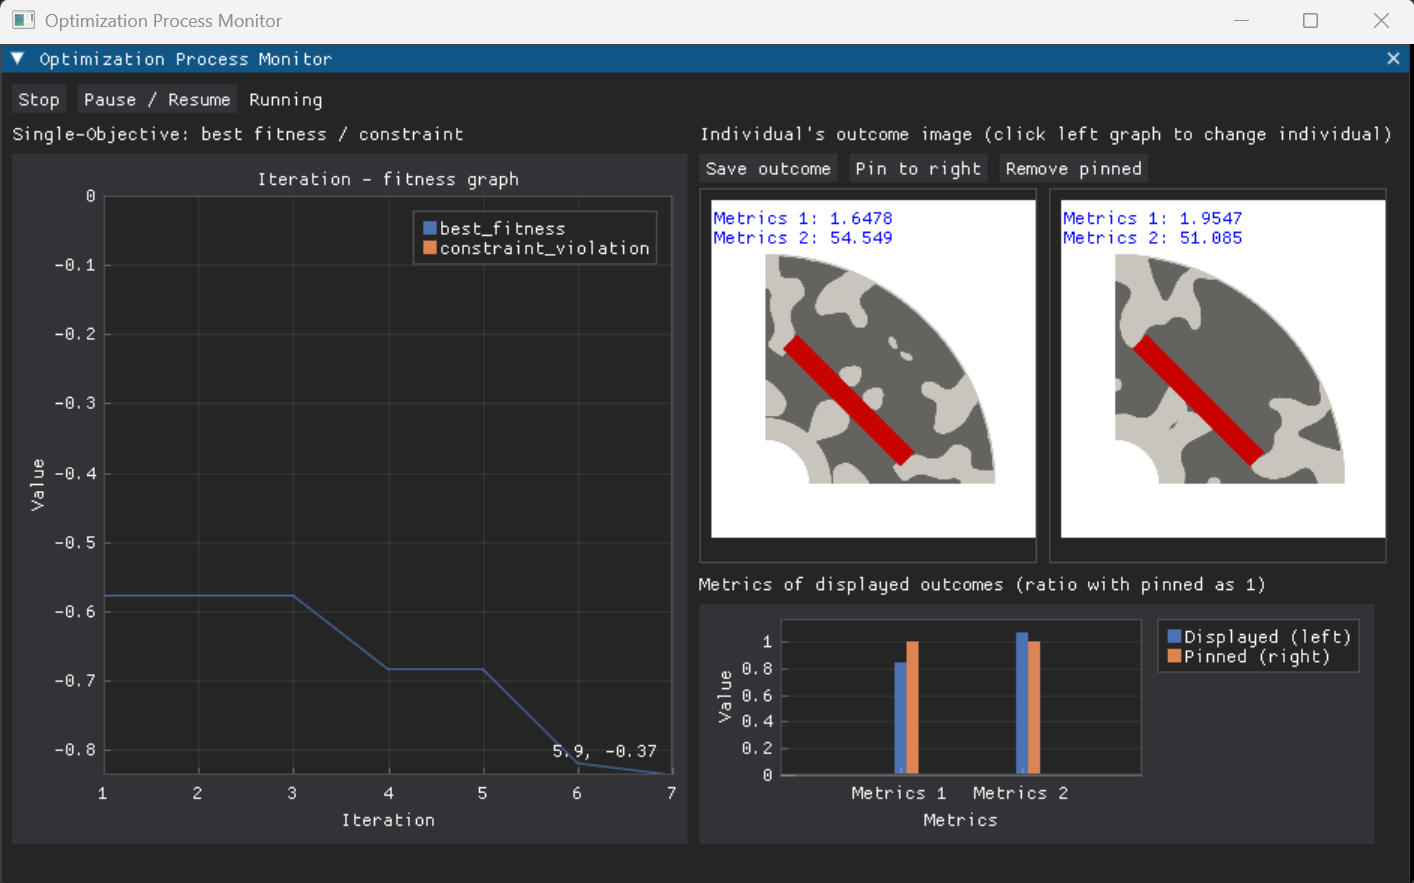
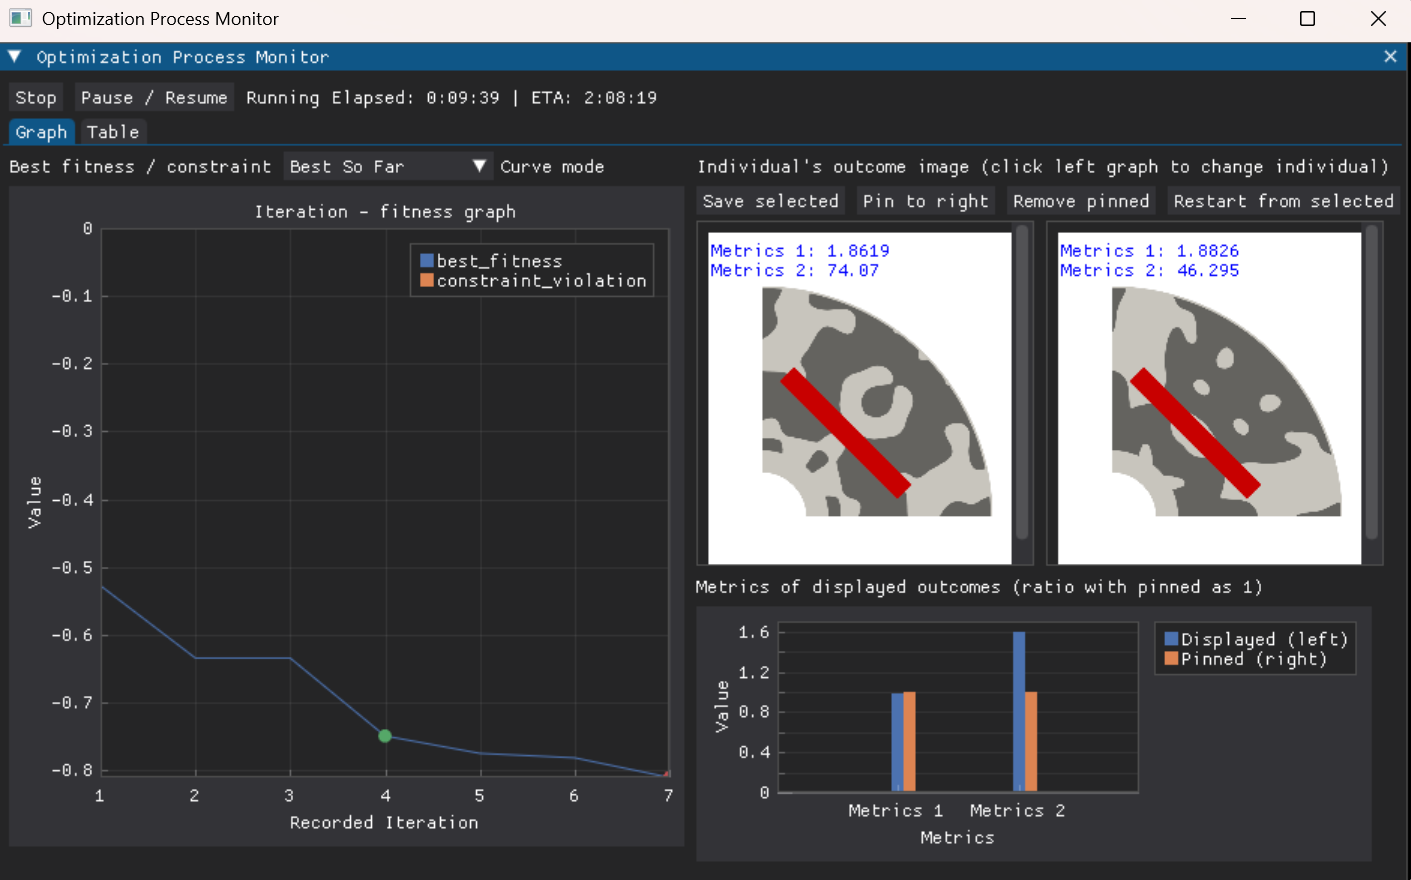
updated

diff --git a/docs/docs/guides/study_control_and_results.md b/docs/docs/guides/study_control_and_results.md
@@ -1,0 +1,189 @@
+---
+sidebar_position: 5
+---
+
+# スタディコントロールと結果確認
+## 全体像
+EMSOptimizerでは、最適化の実行・結果は次の3階層で管理されます。
+- `project`
+  - 最適化対象そのものを切り分ける単位。メッシュファイル、解析条件フォルダはここに入れる。
+- `study`
+  - 最適化条件ごとの単位
+  - `<project>/optimization_studies/`フォルダに作成される
+  - `optimization.yaml`、必要に応じて `machine.yaml`、`optimization_problem.yaml` を持つ
+- `run`
+  - スタディの実行単位
+  - `<project>/summary/optimization_studies/<study_name>/`フォルダに作成される
+  - 同じスタディを複数回実行すると、ランが増えていく
+
+## スタディの作成・管理
+### スタディの作成
+スタディは `mk_study` コマンドで作成します。
+```bash
+python emsopt.py mk_study <project_name> <study_name>
+python emsopt.py mk_study <project_name> <study_name> --from-study <source_study>
+```
+コピー対象は以下です。
+- `optimization.yaml`
+- `machine.yaml`
+- `optimization_problem.yaml`
+既存スタディを上書きしないよう、同名スタディがある場合はエラーになります。
+
+### `default`スタディの自動作成
+`run`、`sample`、`check`、`analyze_runs` などで `--study-name` を省略した場合は、`default`スタディが対象になります。  
+このとき `default` がなければ、プロジェクトルートのコンフィグファイル群をコピーして自動作成されます。
+つまり、最初はスタディを明示的に作らなくても、`default`を起点に使い始められます。
+
+## ランの作成・管理
+### ランの作成
+ランは主に次のコマンドを実行したときに自動的に作られます。
+```bash
+python emsopt.py run <project_name> --study-name <study>
+python emsopt.py batch_run <project_name> <num_runs> --study-name <study>
+python emsopt.py sample <project_name> <num_sample> --study-name <study>
+```
+- `run`
+  - 最適化を1回実行し，1つのランとして保存
+- `batch_run`
+  - 同一スタディを複数回独立実行し，それぞれをランとして保存
+- `sample`
+  - LHSサンプルを評価して、1つのランとして保存
+
+### ランIDの付け方
+ランはスタディごとに連番で採番されます。
+- `run_0001`
+- `run_0002`
+- `run_0003`
+
+### 実行状態の管理
+各 run には `run_info.yaml` が作られ、次の情報を有します：
+- `run_id`
+- `study_name`
+- `status`（最適化の成功・失敗記録）
+- `started_at`
+- `finished_at`
+- `failure_reason`
+- `updated_at`
+
+## 結果出力
+結果は基本的に次に保存されます。
+```text
+<project>/summary/optimization_studies/<study_name>/
+```
+その下に主に以下があります。
+```text
+runs/
+latest.yaml
+resultant/
+records/   ← `optimization.yaml` > `output_control` > `candidate` > `enabled` が `True` のとき
+```
+
+### `runs/<run_id>/`
+各ランの正本です。  
+```text
+summary/optimization_studies/<study>/runs/<run_id>/
+```
+ここには主に以下が入ります。
+- `run_info.yaml`
+  - 上述のランのメタ情報です。
+- `summary.yaml`
+  - ランの実施結果サマリーです。
+- `resultant/`
+  - 単目的なら収束履歴，多目的なら最終世代のパレートフロント情報を保存するフォルダです。
+- `records/`
+  - 解析した全個体の情報を保存するフォルダです。
+  - `optimization.yaml` > `output_control` > `candidate` > `enabled` が `True` sのときに出力されます。
+
+### `latest.yaml`
+スタディの最新ランを指すメタ情報です。  
+中には `latest_run_id` が入ります。
+`check`コマンドはこの情報を使って、「そのスタディの最新ラン結果」を開きます。
+
+### スタディ直下の `resultant/`, `records/`
+これは最新ランのコピーです。
+「いまの最新結果だけをすぐ見たい」ときは、スタディ直下を見ればよい設計です。
+
+### プロジェクト横断結果
+プロジェクト全体では、スタディ横断の集約テーブル（全個体データ）も作られます。  
+`optimization.yaml` > `output_control` > `candidate` > `enabled` が `True`のときに出力されます。
+```text
+<project>/summary/cross_study/cross_study_individuals.csv
+```
+
+### surrogate 用データ出力
+`export_surrogate_data`コマンドを使うと、cross-study テーブルから条件付きで学習データを切り出せます。
+```bash
+python emsopt.py export_surrogate_data <project_name> --study-names <study1> <study2>
+```
+出力先は `summary/cross_study/` です。
+
+## 複数ランの比較・分析
+複数ランの比較・分析は `analyze_runs`コマンドによって実施できます。
+```bash
+python emsopt.py analyze_runs <project_name> --study-name <study>
+python emsopt.py analyze_runs <project_name> --study-name <study> --run-ids run_0001 run_0002
+```
+出力先は以下です。
+```text
+summary/optimization_studies/<study>/analysis/
+```
+
+主な出力は次の通りです。
+
+### 共通
+- `run_status.csv`
+  - run ごとの状態一覧
+- `run_health.yaml`
+  - 成功率、失敗率、失敗理由集計
+
+例:
+- `num_runs`
+- `status_counts`
+- `success_rate`
+- `failure_rate`
+- `failure_reason_counts`
+
+### 単目的
+複数ランの最良目的関数値の比較および統計が出力されます。
+- `single_objective_run_comparison.csv`
+- `single_objective_runs.png`
+- `single_objective_stats.yaml`
+
+`single_objective_stats.yaml` には次が入ります。
+- `num_target_runs`
+- `num_included_runs`
+- `num_excluded_runs`
+- `excluded_runs`
+- `best_objective_mean`
+- `best_objective_std`
+
+### 多目的
+複数ランのパレートフロントハイパーボリューム値の比較および統計が出力されます。
+- `multi_objective_hypervolume.csv`
+- `multi_objective_pareto.png`
+- `multi_objective_stats.yaml`
+
+## 使い分け
+### 新しい条件で実験したい
+- `mk_study` コマンドで新しい study を作る
+- 派生条件なら `--from-study` を使う
+
+### 同じ条件で複数回回したい
+- 同じ study に対して `run` または `batch_run` コマンド
+- run は `run_0001`, `run_0002` と増える
+:::warning
+`optimizer`の実装例にはオプショナル引数として`seed`が存在します。これは，最適化の乱数シードを指定し，再現性を担保する引数です。**ランごとに異なる結果を得たい場合，`seed`引数を未指定にする必要がある**ことに注意してください。  
+特に，`batch_run`コマンドを実行した場合，`optimization.yaml`に記載された引数情報がすべてのランで使用されます。したがって，`seed`引数を指定していると，すべてのランで全く同じ最適化結果となることが期待されます。  
+:::
+
+### 最新結果だけすぐ見たい
+- `check` コマンド
+- または `summary/optimization_studies/<study>/resultant/`
+
+### ランごとの差や成功率を見たい
+- `analyze_runs` コマンド
+- 出力は `analysis/` を見る
+
+### スタディをまたいで再利用したい
+- `summary/cross_study/cross_study_individuals.csv`
+- 一部データのみ利用したいなら`export_surrogate_data`

diff --git a/docs/docs/getting-started/Introduction.md b/docs/docs/getting-started/Introduction.md
@@ -32,13 +32,16 @@ python emsopt.py run Dmodel
 ## EMSOptimizerの概要
 ### EMSOptimizerプロジェクト
 EMSOptimizerでは各最適化ケースを**プロジェクト単位**で管理します。プロジェクトの実体は`project`フォルダ内の各フォルダです。プロジェクトフォルダには以下のファイルが含まれます。
+- **最適化に関するコンフィグ（yamlファイル）**
+    - `optimization.yaml`: 最適化の実行に関するコンフィグ（最適化イテレーション数など）
+    - `mahcine.yaml`: 形状最適化において、最適化対象機器に関係するコンフィグ
+    - `optimization_problem.yaml`: 形状最適化問題（目的関数や制約条件など）を定義するコンフィグ
 - **形状最適化のベースモデルとして用いるメッシュファイル**（`pre_geom2D.msh`, `rotor_mesh2D.msh`（スライド運動領域を含む場合））
 - **形状最適化解析ケースフォルダ**
     - 各解析ケースフォルダにはそれと同名のjsonファイルを配置します（jsonファイルは電磁界シミュレータパッケージ`pyemsol`用の入力ファイルです）。
-- **最適化に関するコンフィグ（yamlファイル）**
-    - `mahcine.yaml`: 形状最適化において、最適化対象機器に関係するコンフィグ
-    - `optimization_problem.yaml`: 形状最適化問題（目的関数や制約条件など）を定義するコンフィグ
-    - `optimization.yaml`: 最適化の実行に関するコンフィグ（最適化イテレーション数など）
+:::info
+ベンチマーク関数の最適化を行う場合，`optimization.yaml`のみが必須ファイルとなります。
+:::
 
 いくつかのプロジェクト例が`project`フォルダ内にすでに配置されています。冒頭の例で指定した`Dmodel`はその一つです。
 
@@ -62,9 +65,9 @@ python emsopt.py run {プロジェクト名}
 7. CLIから`run`コマンドにより最適化を実行する。
 8. 最適化完了後、必要があれば`check`コマンドにより最適化結果を確認する。
 :::info スタディとラン
-EMSOptimizerではプロジェクト内に複数のスタディ（コンフィグファイルの管理単位）を作成することができます。  
-スタディごとに独立したコンフィグファイルを保持し，そのコンフィグファイルを使用して最適化を実施できます（メッシュファイルおよび解析ケースは全スタディ間で共通であり，プロジェクトフォルダ直下に格納する）。なお，スタディ無で最適化を実行すると`default`スタディが自動作成されます。    
-また，スタディの最適化試行ごとにランと呼ばれる単位で結果が保存されます。この機能は同じ設定の最適化を乱数シード等を変えつつ複数回実行し，その結果を比較するのに便利です。
+EMSOptimizerではプロジェクト内に複数のスタディ（最適化設定の管理単位）を作成することができます。  
+スタディの最適化試行ごとにランと呼ばれる単位で結果が保存されます。また，同一スタディを複数回まとめて実行する`batch_run`コマンドも使用できます。  
+詳細は[ユーザガイド > スタディコントロールと結果確認](./study_control_and_results.md)をご覧ください。
 :::
 
 ### 実際に試してみる
@@ -105,7 +108,7 @@ python emsopt.py run NewDmodel
 その他、最適化に関するコンフィグの詳細は[ユーザガイド > 最適化の設定](../guides/optimization_config.md)をご覧ください。
 :::
 
-既定の回数の最適化イテレーションが経過するか、GUI上から停止されると最適化計算が完了状態になります。完了後もGUIは自由に操作でき、GUIを閉じるかCUI（コマンドライン）上で`Ctrl+C`を入力することでプロセスを完全に終了します。
+既定の回数の最適化イテレーションが経過するか、GUI上から停止されると最適化計算が完了状態になります。完了後もGUIは自由に操作でき、GUIを閉じることでプロセスを完全に終了します。
 
 GUIは`check`コマンドによってプロセス終了後に起動することもできます。主に完了した最適化計算の振り返りに活用できます。
 ```sh
@@ -126,7 +129,8 @@ python emsopt.py check NewDmodel
 ②最適化経過グラフ。
 - `Graph`タブ: 単目的最適化では最適化イテレーションー最良評価値グラフ、多目的最適化ではパレートフロントが表示されます。また、グラフをクリックすると個体が選択状態となり、対応する形状画像が③に表示されます。  
 :::info
-多目的最適化の場合、パレートフロントは2つの目的関数値を縦軸／横軸としたプロットとして表示されます。表示する軸はグラフ上部に現れるコンボボックスによって切り替えられます。
+単目的最適化の場合，デフォルトでは「そのイテレーション中の最良個体」を全イテレーションについてプロットするモード（"Generation Best"）となっています。一方，グラフ上部コンボボックスを切り替えて，「そのイテレーションまでに得られた最良個体」のプロット（"Best So Far"）を表示することもできます。
+多目的最適化の場合，パレートフロントは2つの目的関数値を縦軸／横軸としたプロットとして表示されます。表示する軸はグラフ上部コンボボックスによって切り替えられます。
 :::
 - `Table`タブ: グラフに表示されている個体群がテーブルデータ形式で表示されます。列名をクリックすることで，特定の目的関数値によって個体をソートできます。テーブルの「Select」セルをクリックすると個体が選択状態となり、対応する形状画像が③に表示されます。  
 

diff --git a/docs/docs/getting-started/whats_next.md b/docs/docs/getting-started/whats_next.md
@@ -12,6 +12,9 @@ sidebar_position: 4
 - 形状最適化における機器設定（`machine.yaml`）を詳細に知りたい
 →[ユーザガイド > 機器設定](../guides/machine_config.md)
 
+- スタディ管理や出力の詳細を知りたい
+→[ユーザガイド > スタディコントロールと結果確認](../guides/study_control_and_results.md)
+
 - Optimizer等のコアオブジェクト実装例の詳細と使い方を知りたい
 → ユーザガイドからそれぞれのセクションを参照
 

diff --git a/docs/docs/guides/opt_problem_ex.md b/docs/docs/guides/opt_problem_ex.md
@@ -1,5 +1,5 @@
 ---
-sidebar_position: 9
+sidebar_position: 11
 ---
 # 評価用関数実装例
 ここでは、形状最適化において`optimization_problem.yaml`に設定できる評価関数の実装例を紹介します。  
